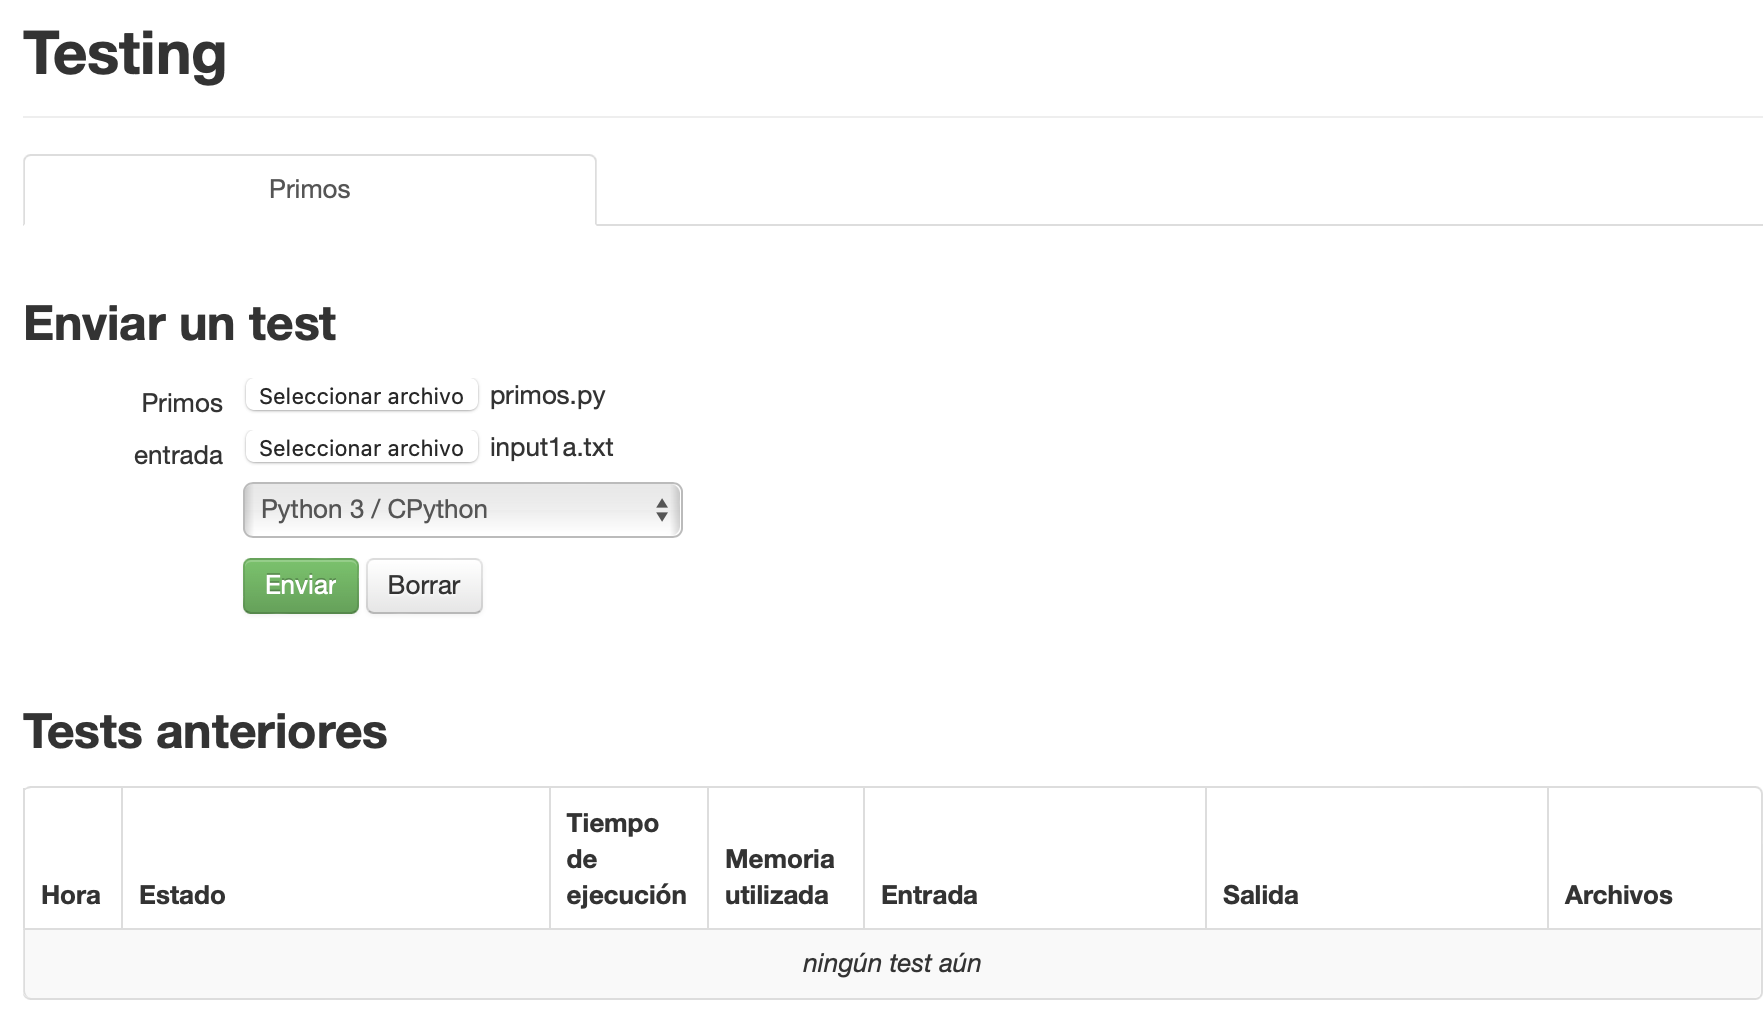
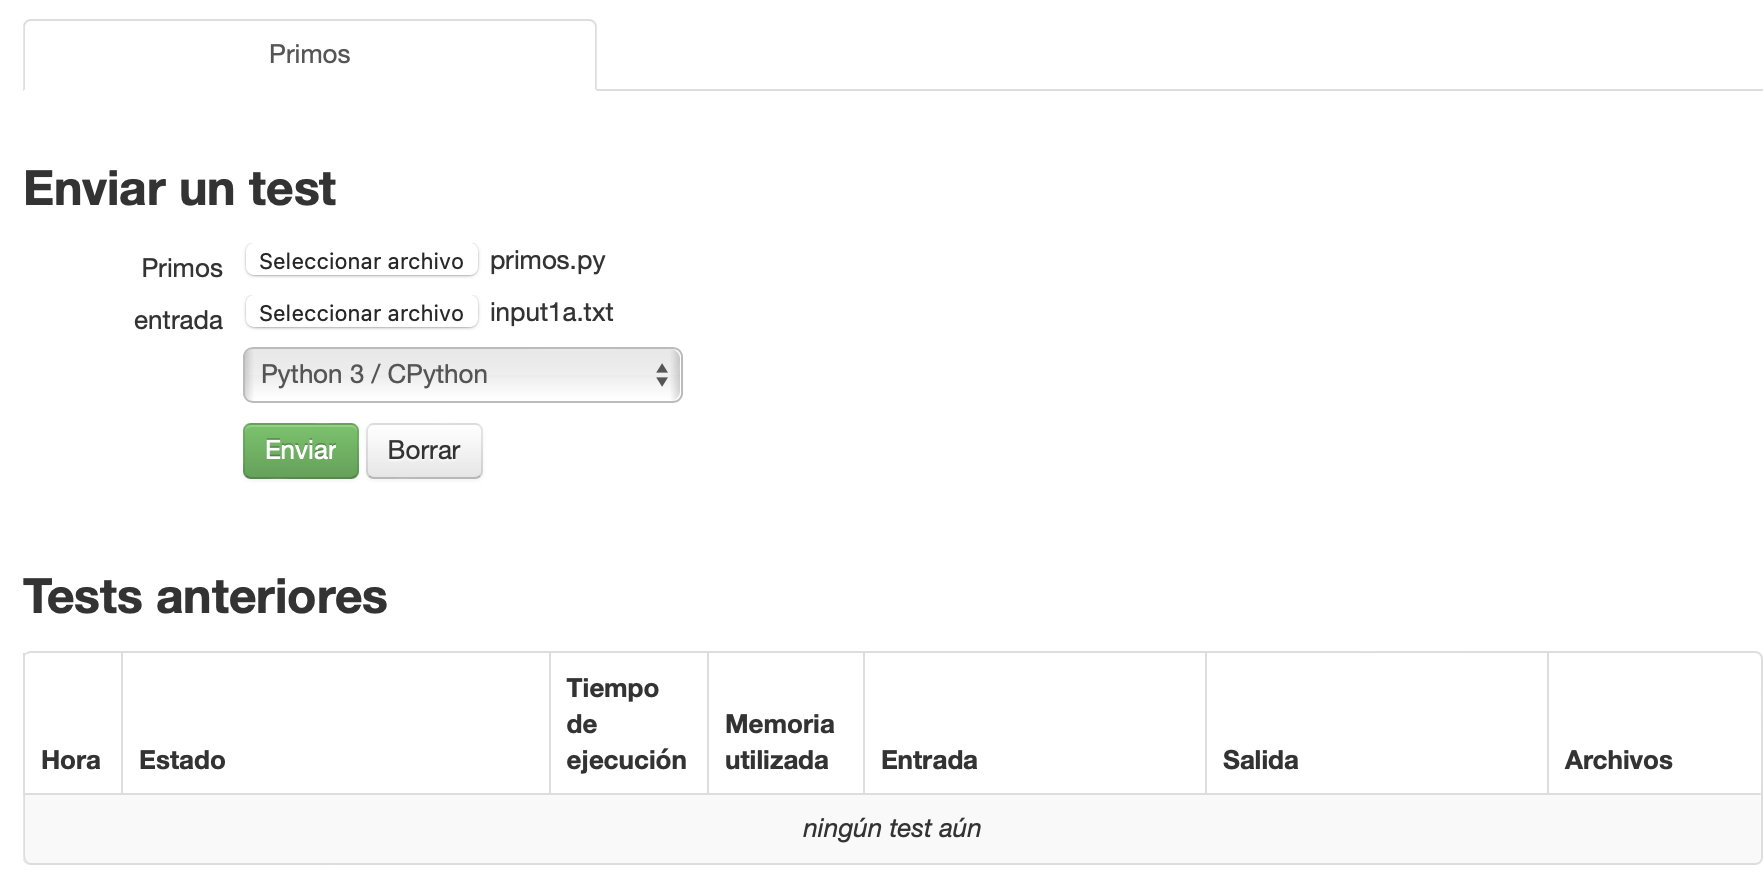
Cambio tamaño

diff --git a/uso-evaluador.md b/uso-evaluador.md
@@ -102,7 +102,7 @@ izquierda.
 
 Cuando accedes a esa opción puedes subir tu programa y un fichero de entrada.
 
-<img src="imagenes/testing.png" width="700px" border="1" />
+<img src="imagenes/testing.png" width="700px" />
 
 Una vez subidos ambos ficheros, el programa se compila y se ejecuta en
 el servidor. Puedes descargarte entonces el resultado pulsando en el
